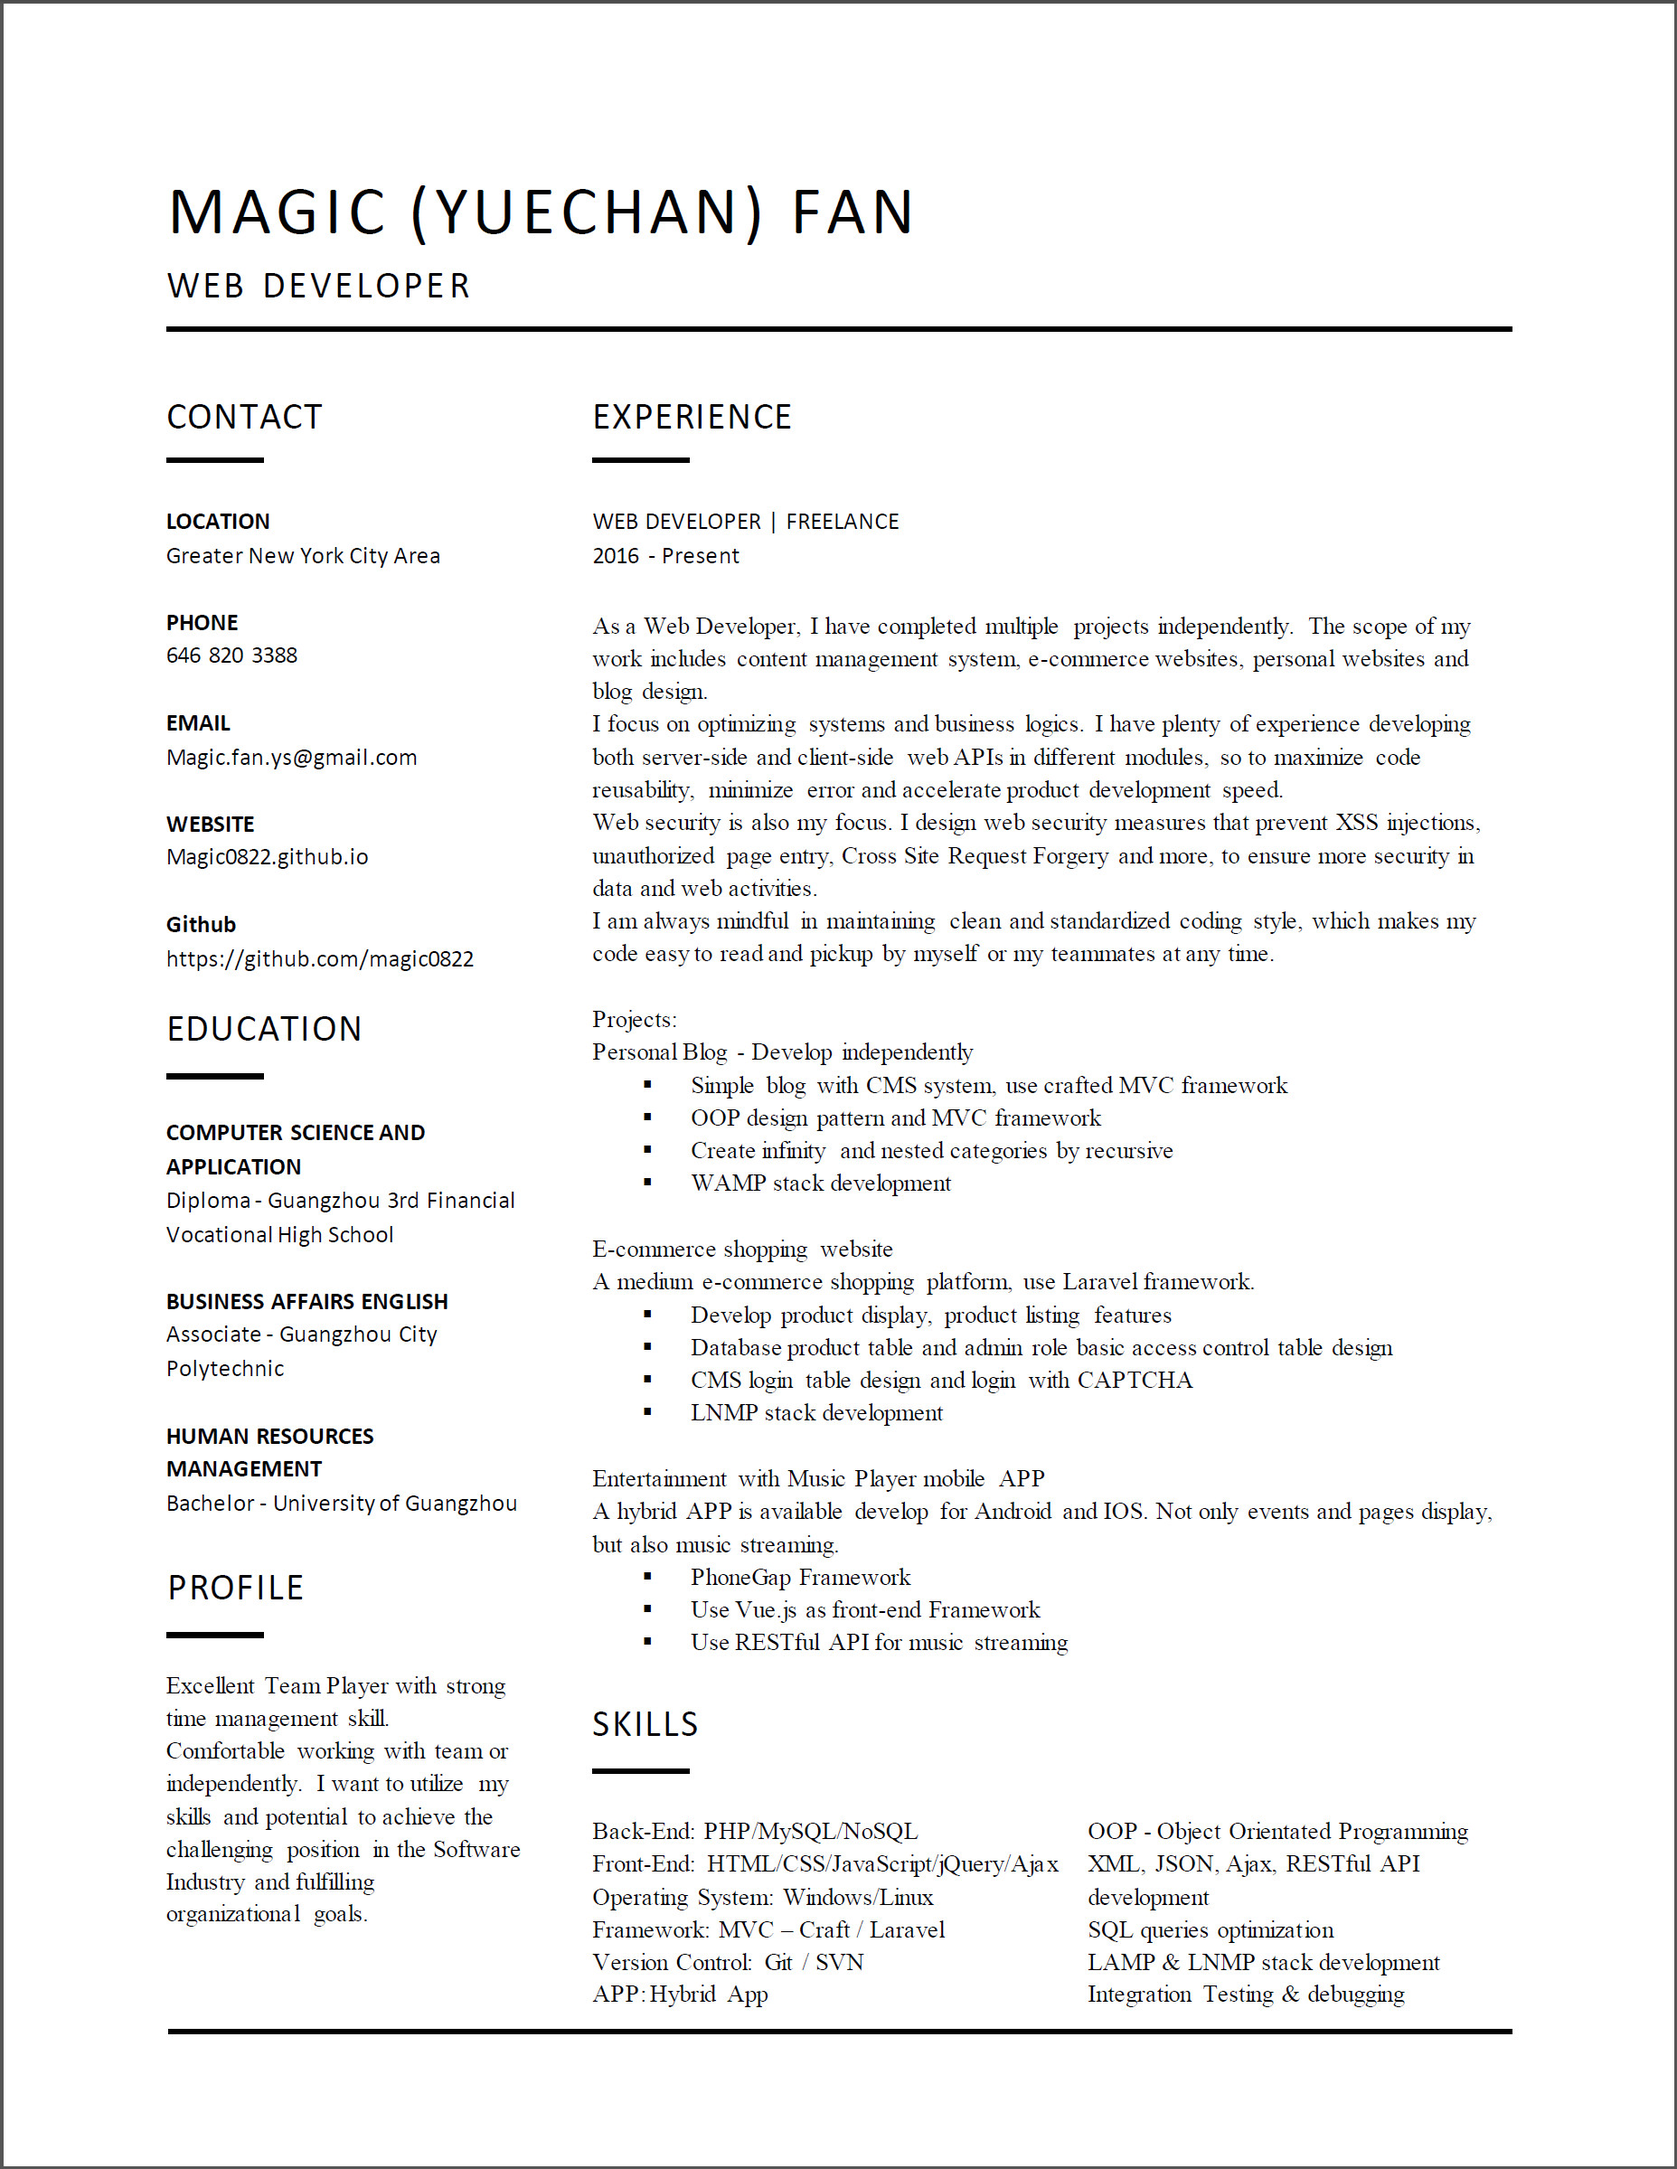
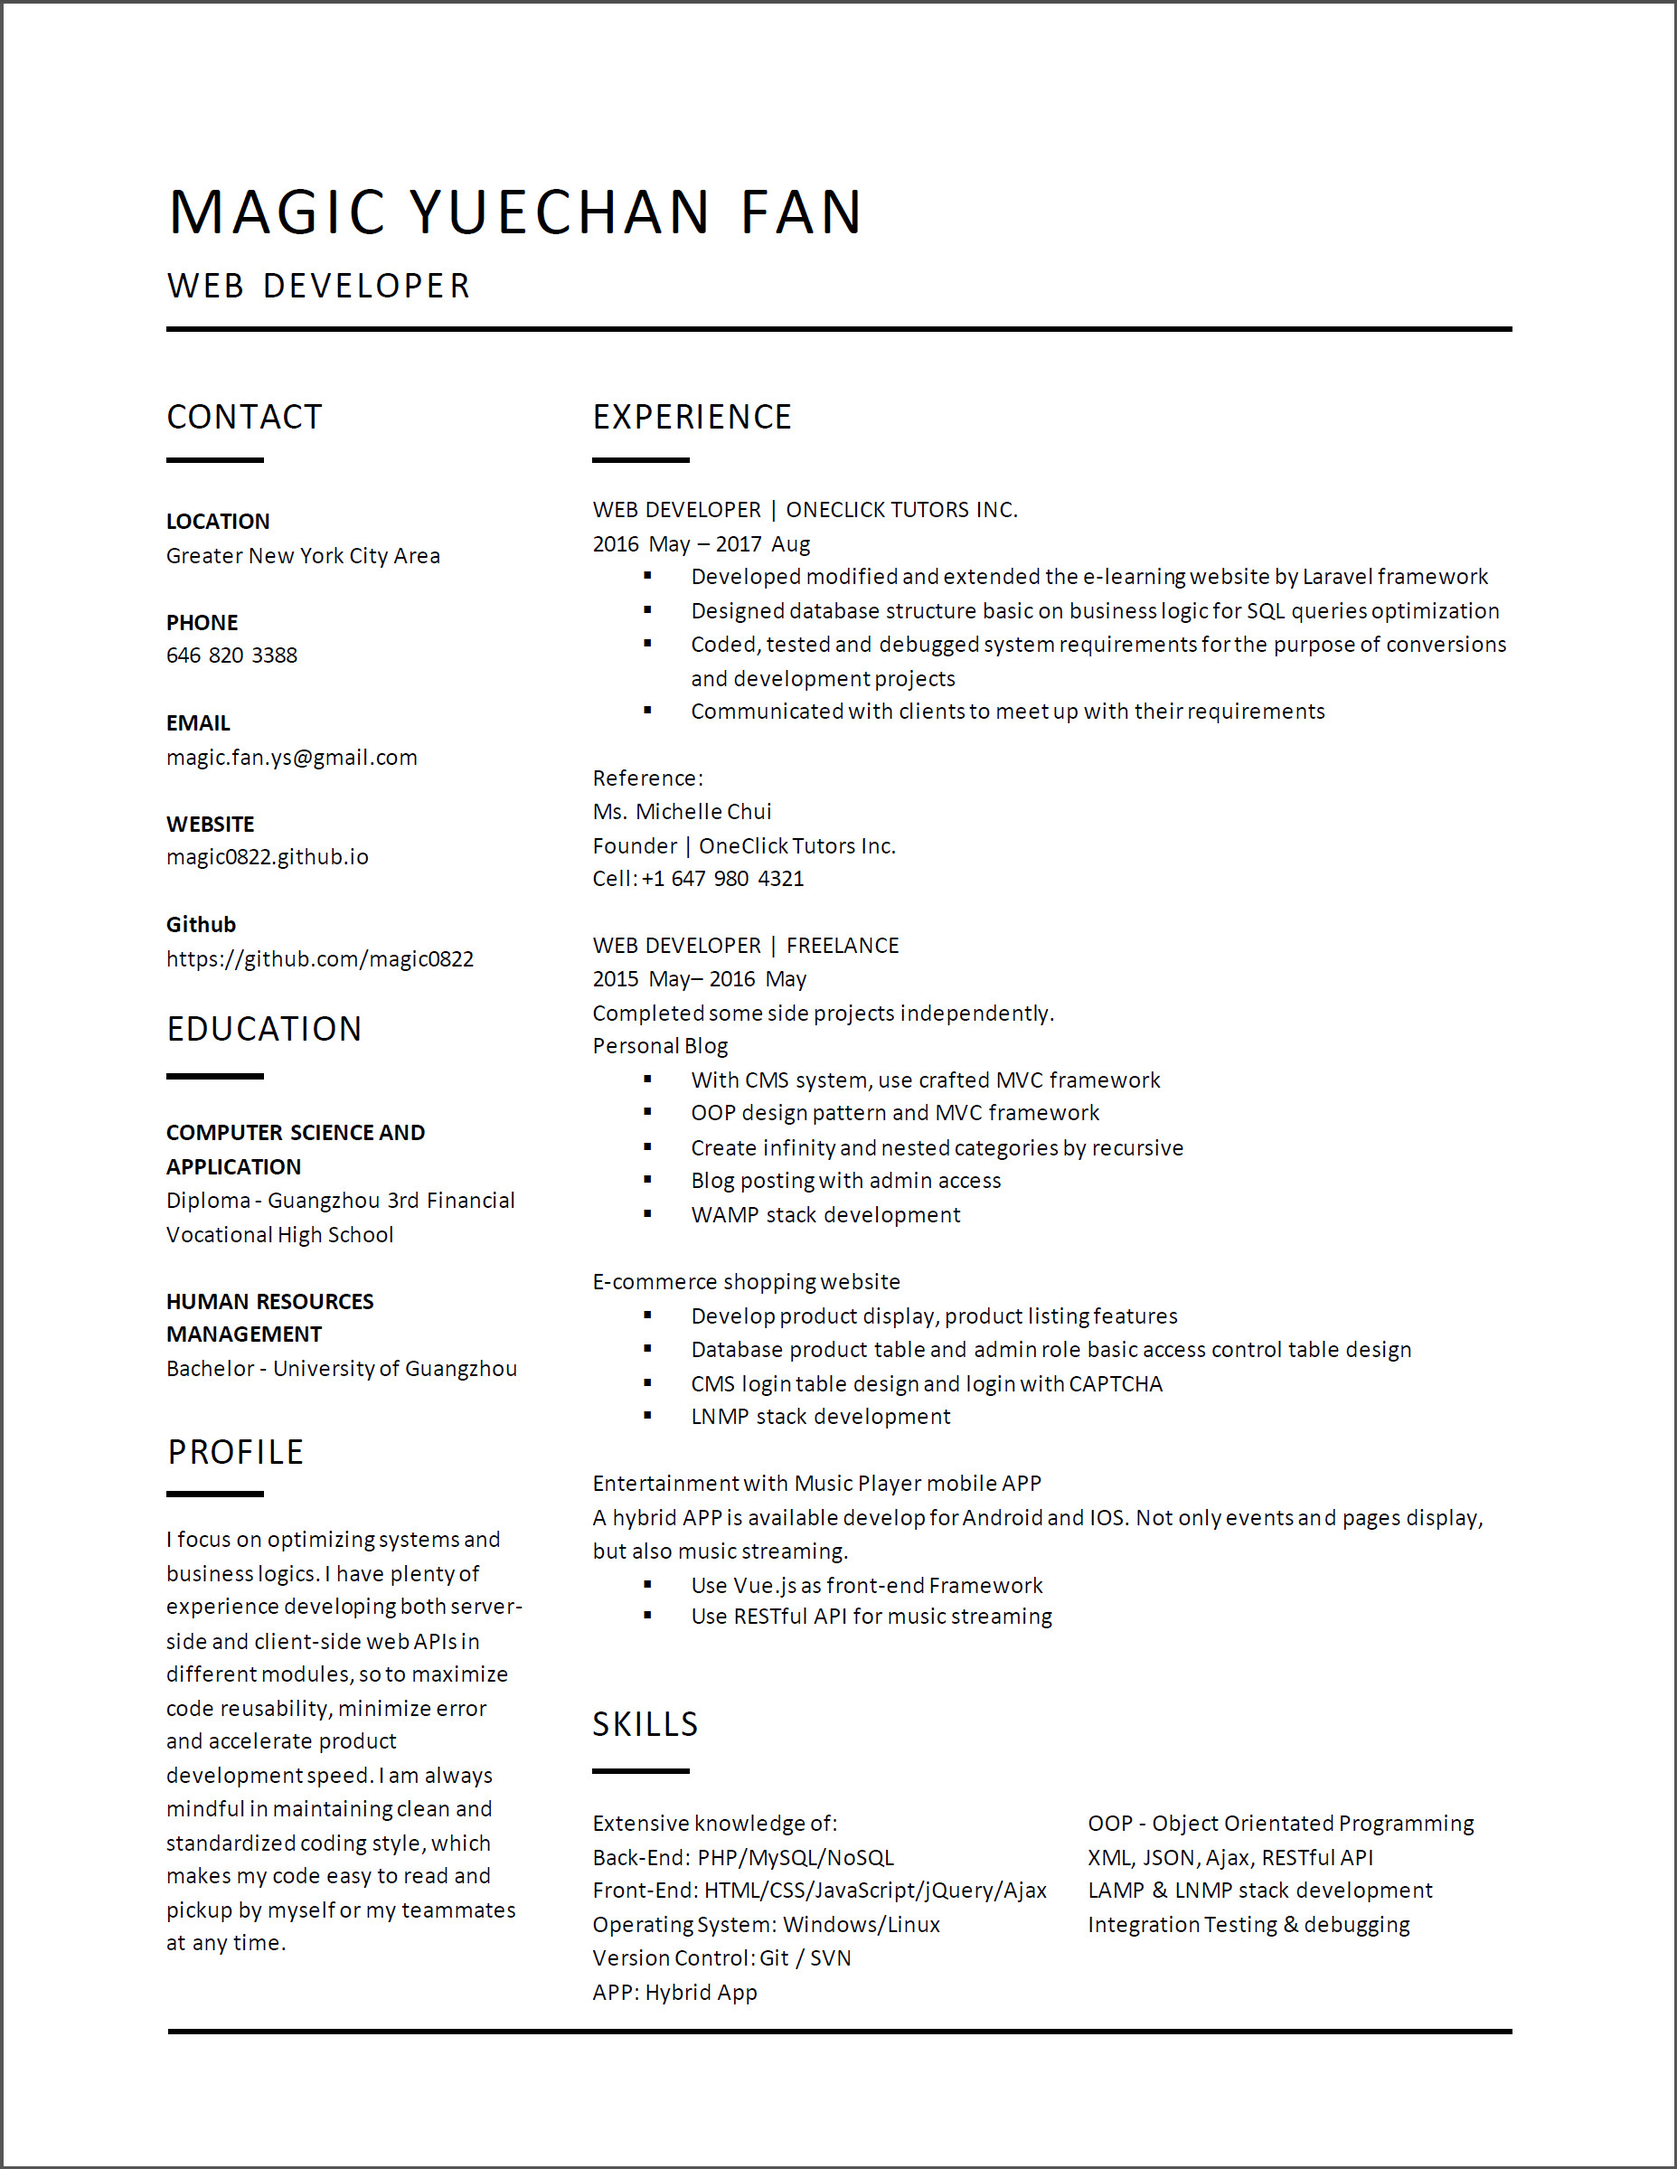
updated resume

diff --git a/index.html b/index.html
@@ -405,21 +405,21 @@
                         <div class="wrap-card">
                           <div class="card">
                             <h2 class="year">
-                              2016 - Present
+                              2016 May - 2017 August
                             </h2>
                             <p class="job">
                               Fullstack Wep Developer
                             </p>
                             <p class="company">
-                              Freelance
+                              ONECLICK TUTORS INC.
                             </p>
                             <hr>
                             <div class="text-detail">
                               <p>
-                                As a Web Developer, I have completed multiple projects independently. The scope of my work includes content management system, e-commerce websites, personal websites and blog design.
-I focus on optimizing systems and business logics. I have plenty of experience developing both server-side and client-side web APIs in different modules, so to maximize code reusability, minimize error and accelerate product development speed.
-Web security is also my focus. I design web security measures that prevent XSS injections, unauthorized page entry, Cross Site Request Forgery and more, to ensure more security in data and web activities.
-I am always mindful in maintaining clean and standardized coding style, which makes my code easy to read and pickup by myself or my teammates at any time.
+                                	Developed modified and extended the e-learning website by Laravel framework
+									Designed database structure basic on business logic for SQL queries optimization
+									Coded, tested and debugged system requirements for the purpose of conversions and development projects
+									Communicated with clients to meet up with their requirements
                               </p>
                             </div>
                           </div>
@@ -432,20 +432,36 @@ I am always mindful in maintaining clean and standardized coding style, which ma
                         <div class="wrap-card">
                           <div class="card">
                             <h2 class="year">
-                              2015 - 2016
+                              2015 May - 2016 May
                             </h2>
                             <p class="job">
-                              Director of Marketing and Social Media
+                              Fullstack Wep Developer
                             </p>
                             <p class="company">
-                              B2C Online Website
+                              FREELANCE
                             </p>
                             <hr>
                             <div class="text-detail">
                               <p>
-                                In this role I develop and manage online marketing campaigns, effectively driving brand awareness, engagement and traffic to social media pages, increase 10% - 15% sales during news announced. 
-I assess social media marketing strategies to determine rate of return, suggest provide discount price keep the merchant, monthly return rate is lower than pass. 
-Also place stories in company blogs. Ensure placement in social content Web sites such as Facebook Page, Twitter, Pinterest, maintain existing customer loyalty and explore new customer.
+                                Completed some side projects independently.
+								Personal Blog
+									With CMS system, use crafted MVC framework
+									OOP design pattern and MVC framework
+									Create infinity and nested categories by recursive
+									Blog posting with admin access
+									WAMP stack development
+
+								E-commerce shopping website
+									Develop product display, product listing features
+									Database product table and admin role basic access control table design
+									CMS login table design and login with CAPTCHA
+									LNMP stack development
+
+								Entertainment with Music Player mobile APP
+								A hybrid APP is available develop for Android and IOS. Not only events and pages display, but also music streaming.
+									Use Vue.js as front-end Framework
+									Use RESTful API for music streaming
+
                               </p>
                             </div>
                           </div>
